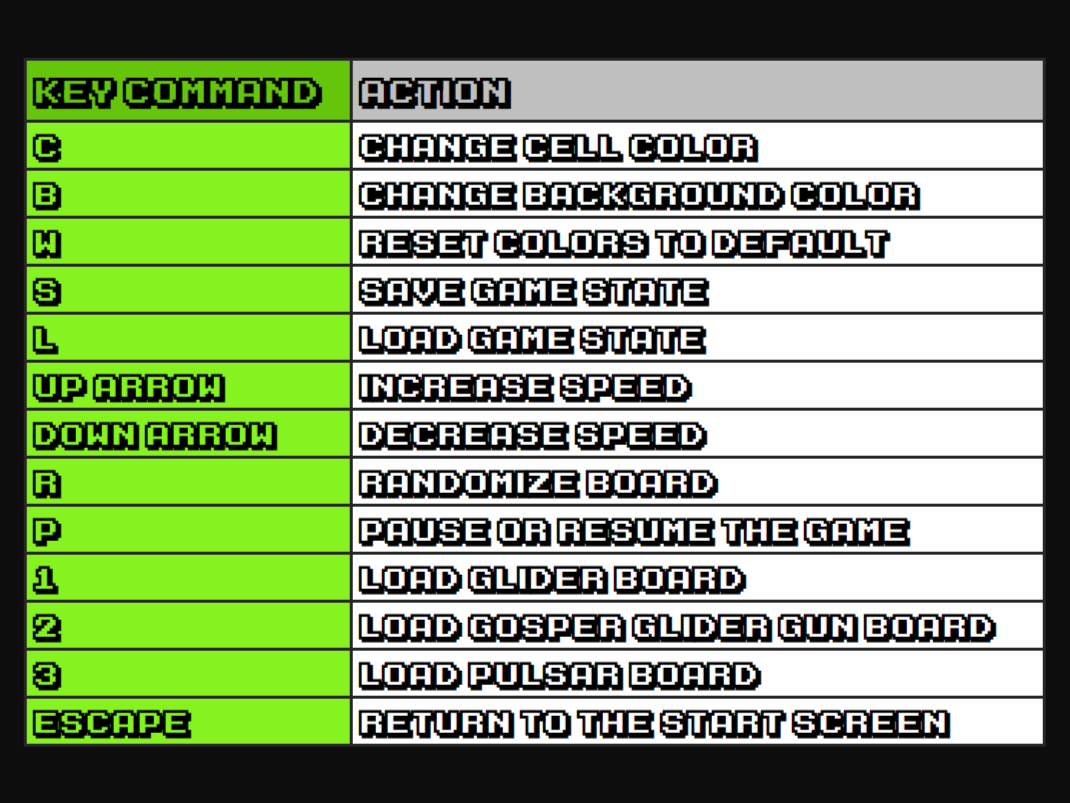
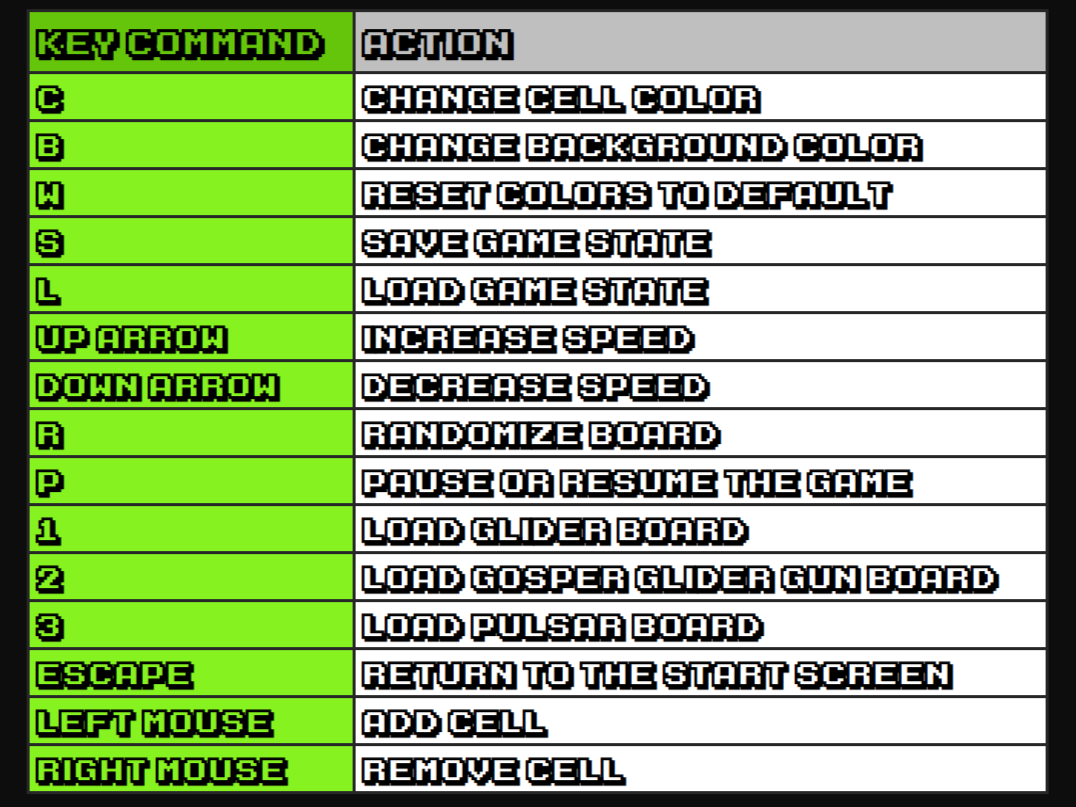
left and right mouse click

diff --git a/main.py b/main.py
@@ -36,8 +36,6 @@ def show_start_screen(screen, font):
     while running:
         screen.blit(background_image, (0, 0))
 
-        # main_text_surface = pygame.Surface((500, 80))
-        # main_text_rect = main_text_surface.get_rect(center=(400, 100))
         start_button_surface = pygame.Surface((250, 70))
         start_button_rect = start_button_surface.get_rect(center=(400, 225))
         exit_button_surface = pygame.Surface((200, 70))
@@ -45,29 +43,18 @@ def show_start_screen(screen, font):
         keyshorts_button_surface = pygame.Surface((450, 70))
         keyshorts_button_rect = keyshorts_button_surface.get_rect(center=(400, 425))
 
-        main_text_color = (0, 0, 0)
         start_button_color = (134,243,32,255)
         exit_button_color = (236,17,48,255)
         keyshorts_button_color = (254,137,47,255)
-
-        # start_button = font.render('Start', True, WHITE)
-        # exit_button = font.render('Exit', True, WHITE)
 
         font = pygame.font.Font('ka1.ttf', 75)
         main_text = font.render("Game of Life", True, BLACK)
         main_text_rect = main_text.get_rect(center=(400, 100))
         screen.blit(main_text, main_text_rect)
 
-        # draw_button(screen, main_text_surface, main_text_rect, main_text_color, "Game of Life", font_size=75, color_text=WHITE)
         draw_button(screen, start_button_surface, start_button_rect, start_button_color, "Start", color_text=BLACK)
         draw_button(screen, keyshorts_button_surface, keyshorts_button_rect, keyshorts_button_color, "Key Commands", font_size=40, color_text=BLACK)
         draw_button(screen, exit_button_surface, exit_button_rect, exit_button_color, "Exit", color_text=BLACK)
-
-        # start_button_rect = start_button.get_rect(center=(WINDOW_WIDTH // 2, WINDOW_HEIGHT // 2 - 50))
-        # exit_button_rect = exit_button.get_rect(center=(WINDOW_WIDTH // 2, WINDOW_HEIGHT // 2 + 50))
-
-        # screen.blit(start_button, start_button_rect)
-        # screen.blit(exit_button, exit_button_rect)
 
         key_shorts_table = pygame.image.load('key_commands.png')
         key_shorts_table = pygame.transform.scale(key_shorts_table, (WINDOW_WIDTH, WINDOW_HEIGHT))
@@ -180,6 +167,14 @@ def main():
                             game = GameOfLife(WINDOW_WIDTH // CELL_SIZE, WINDOW_HEIGHT // CELL_SIZE, file_path=file_path)
                     elif event.key == pygame.K_ESCAPE:  # Return to the start screen
                             in_start_screen = True
+                if event.type == pygame.MOUSEBUTTONDOWN:
+                    mouse_pos = pygame.mouse.get_pos()
+                    cell_x, cell_y = mouse_pos[0] // CELL_SIZE, mouse_pos[1] // CELL_SIZE
+
+                    if event.button == 1:  # Left mouse
+                        game.board[cell_y][cell_x] = 1  # Add cell
+                    elif event.button == 3:  # Right mouse
+                        game.board[cell_y][cell_x] = 0  # Remove cell
             
             draw_board(screen, game)
             draw_grid(screen)

diff --git a/game.py b/game.py
@@ -23,10 +23,11 @@ class GameOfLife:
                 new_array = np.vstack((np.zeros((3, 100)), np.array([[1 if char == 'X' else 0 for char in line.strip()] for line in lines]), np.zeros((5, 100))))
                 return new_array[:, 16:]
             else:
-                return np.array([[1 if char == 'X' else 0 for char in line.strip()] for line in lines])
-                
+                return np.array([[1 if char == 'X' else 0 for char in line.strip()] for line in lines])  
 
     def update_board(self):
+        if not self.is_board_valid():
+            raise ValueError("Invalid board state")
         new_board = self.board.copy()
         for i in range(self.board.shape[0]):
             for j in range(self.board.shape[1]):
@@ -44,3 +45,12 @@ class GameOfLife:
 
     def get_board(self):
         return self.board
+    
+    def is_board_valid(self):
+        if not isinstance(self.board, np.ndarray):
+            return False
+        if self.board.ndim != 2:
+            return False
+        if not np.all(np.isin(self.board, [0, 1])):
+            return False
+        return True

diff --git a/board_loader.py b/board_loader.py
@@ -1,11 +1,28 @@
+import os
+
 def load_board(file_path):
+    if not os.path.isfile(file_path):
+        print(f"Error: {file_path} is not a valid file.")
+        return None
+
     board = []
+    line_length = None
     try:
         with open(file_path, 'r') as file:
             for line in file:
+                if line_length is None:
+                    line_length = len(line.strip())
+                elif len(line.strip()) != line_length:
+                    print(f"Error: Inconsistent line lengths in board file.")
+                    return None
+
                 board_line = [1 if char == 'X' else 0 for char in line.strip()]
+                if not all(char in ['X', '.'] for char in line.strip()):
+                    print(f"Error: Invalid character in board file.")
+                    return None
                 board.append(board_line)
         return board
-    except FileNotFoundError:
-        print(f"Error: The file {file_path} was not found.")
+    except Exception as e:
+        print(f"Error loading board: {e}")
         return None
+
